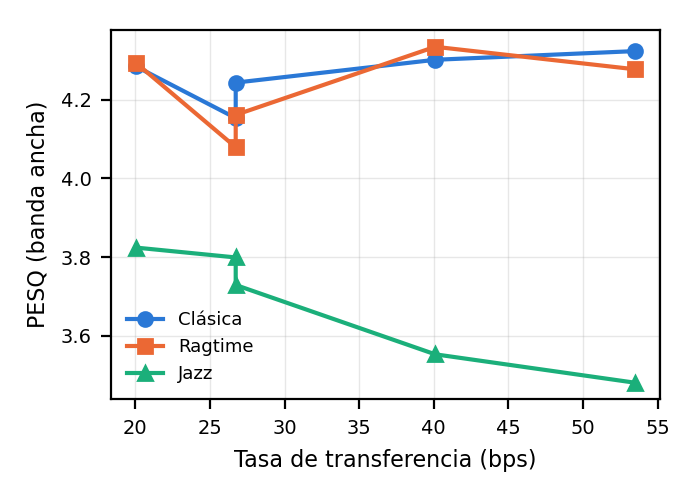
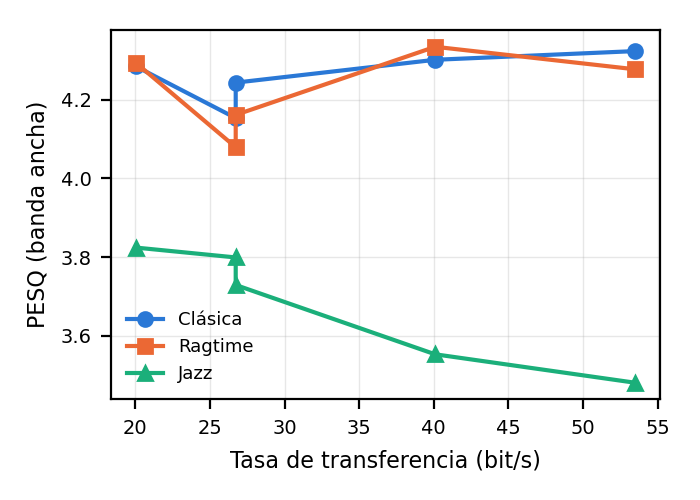
Etiquetas de las figuras en español sin códigos de requisitos

Changed region(s): [[0.33, 0.9, 0.78, 0.96]]

diff --git a/prototipo/experimentos_recuperacion.py b/prototipo/experimentos_recuperacion.py
@@ -130,7 +130,7 @@ def generar_figuras(
         ys_p = [float(f["tasa_recuperacion_porcentaje"]) for f in sub_prom]
         ax.plot(xs_p, ys_p, color="black", linestyle="--", linewidth=2.0, marker="*", label="Promedio global")
 
-    ax.axhline(90.0, color="crimson", linestyle=":", linewidth=1.2, label="Meta mínima R46 (90 %)")
+    ax.axhline(90.0, color="crimson", linestyle=":", linewidth=1.2, label="Mínimo exigido (90 %)")
     ax.set_xlabel("Atenuación del eco (%)")
     ax.set_ylabel("Tasa de recuperación (%)")
     ax.set_ylim(50.0, 103.0)

diff --git a/prototipo/experimentos_calidad.py b/prototipo/experimentos_calidad.py
@@ -182,7 +182,7 @@ def main() -> int:
            args.figuras)
     figura("calidad_vs_recuperacion", por_atenuacion, "recuperacion",
            "Recuperación de bits (%)", args.figuras, orden="atenuacion")
-    figura("calidad_vs_tasa", por_retardos, "tasa_bps", "Tasa de transferencia (bps)",
+    figura("calidad_vs_tasa", por_retardos, "tasa_bps", "Tasa de transferencia (bit/s)",
            args.figuras)
     print(f"Figuras guardadas en: {args.figuras}")
     return 0
